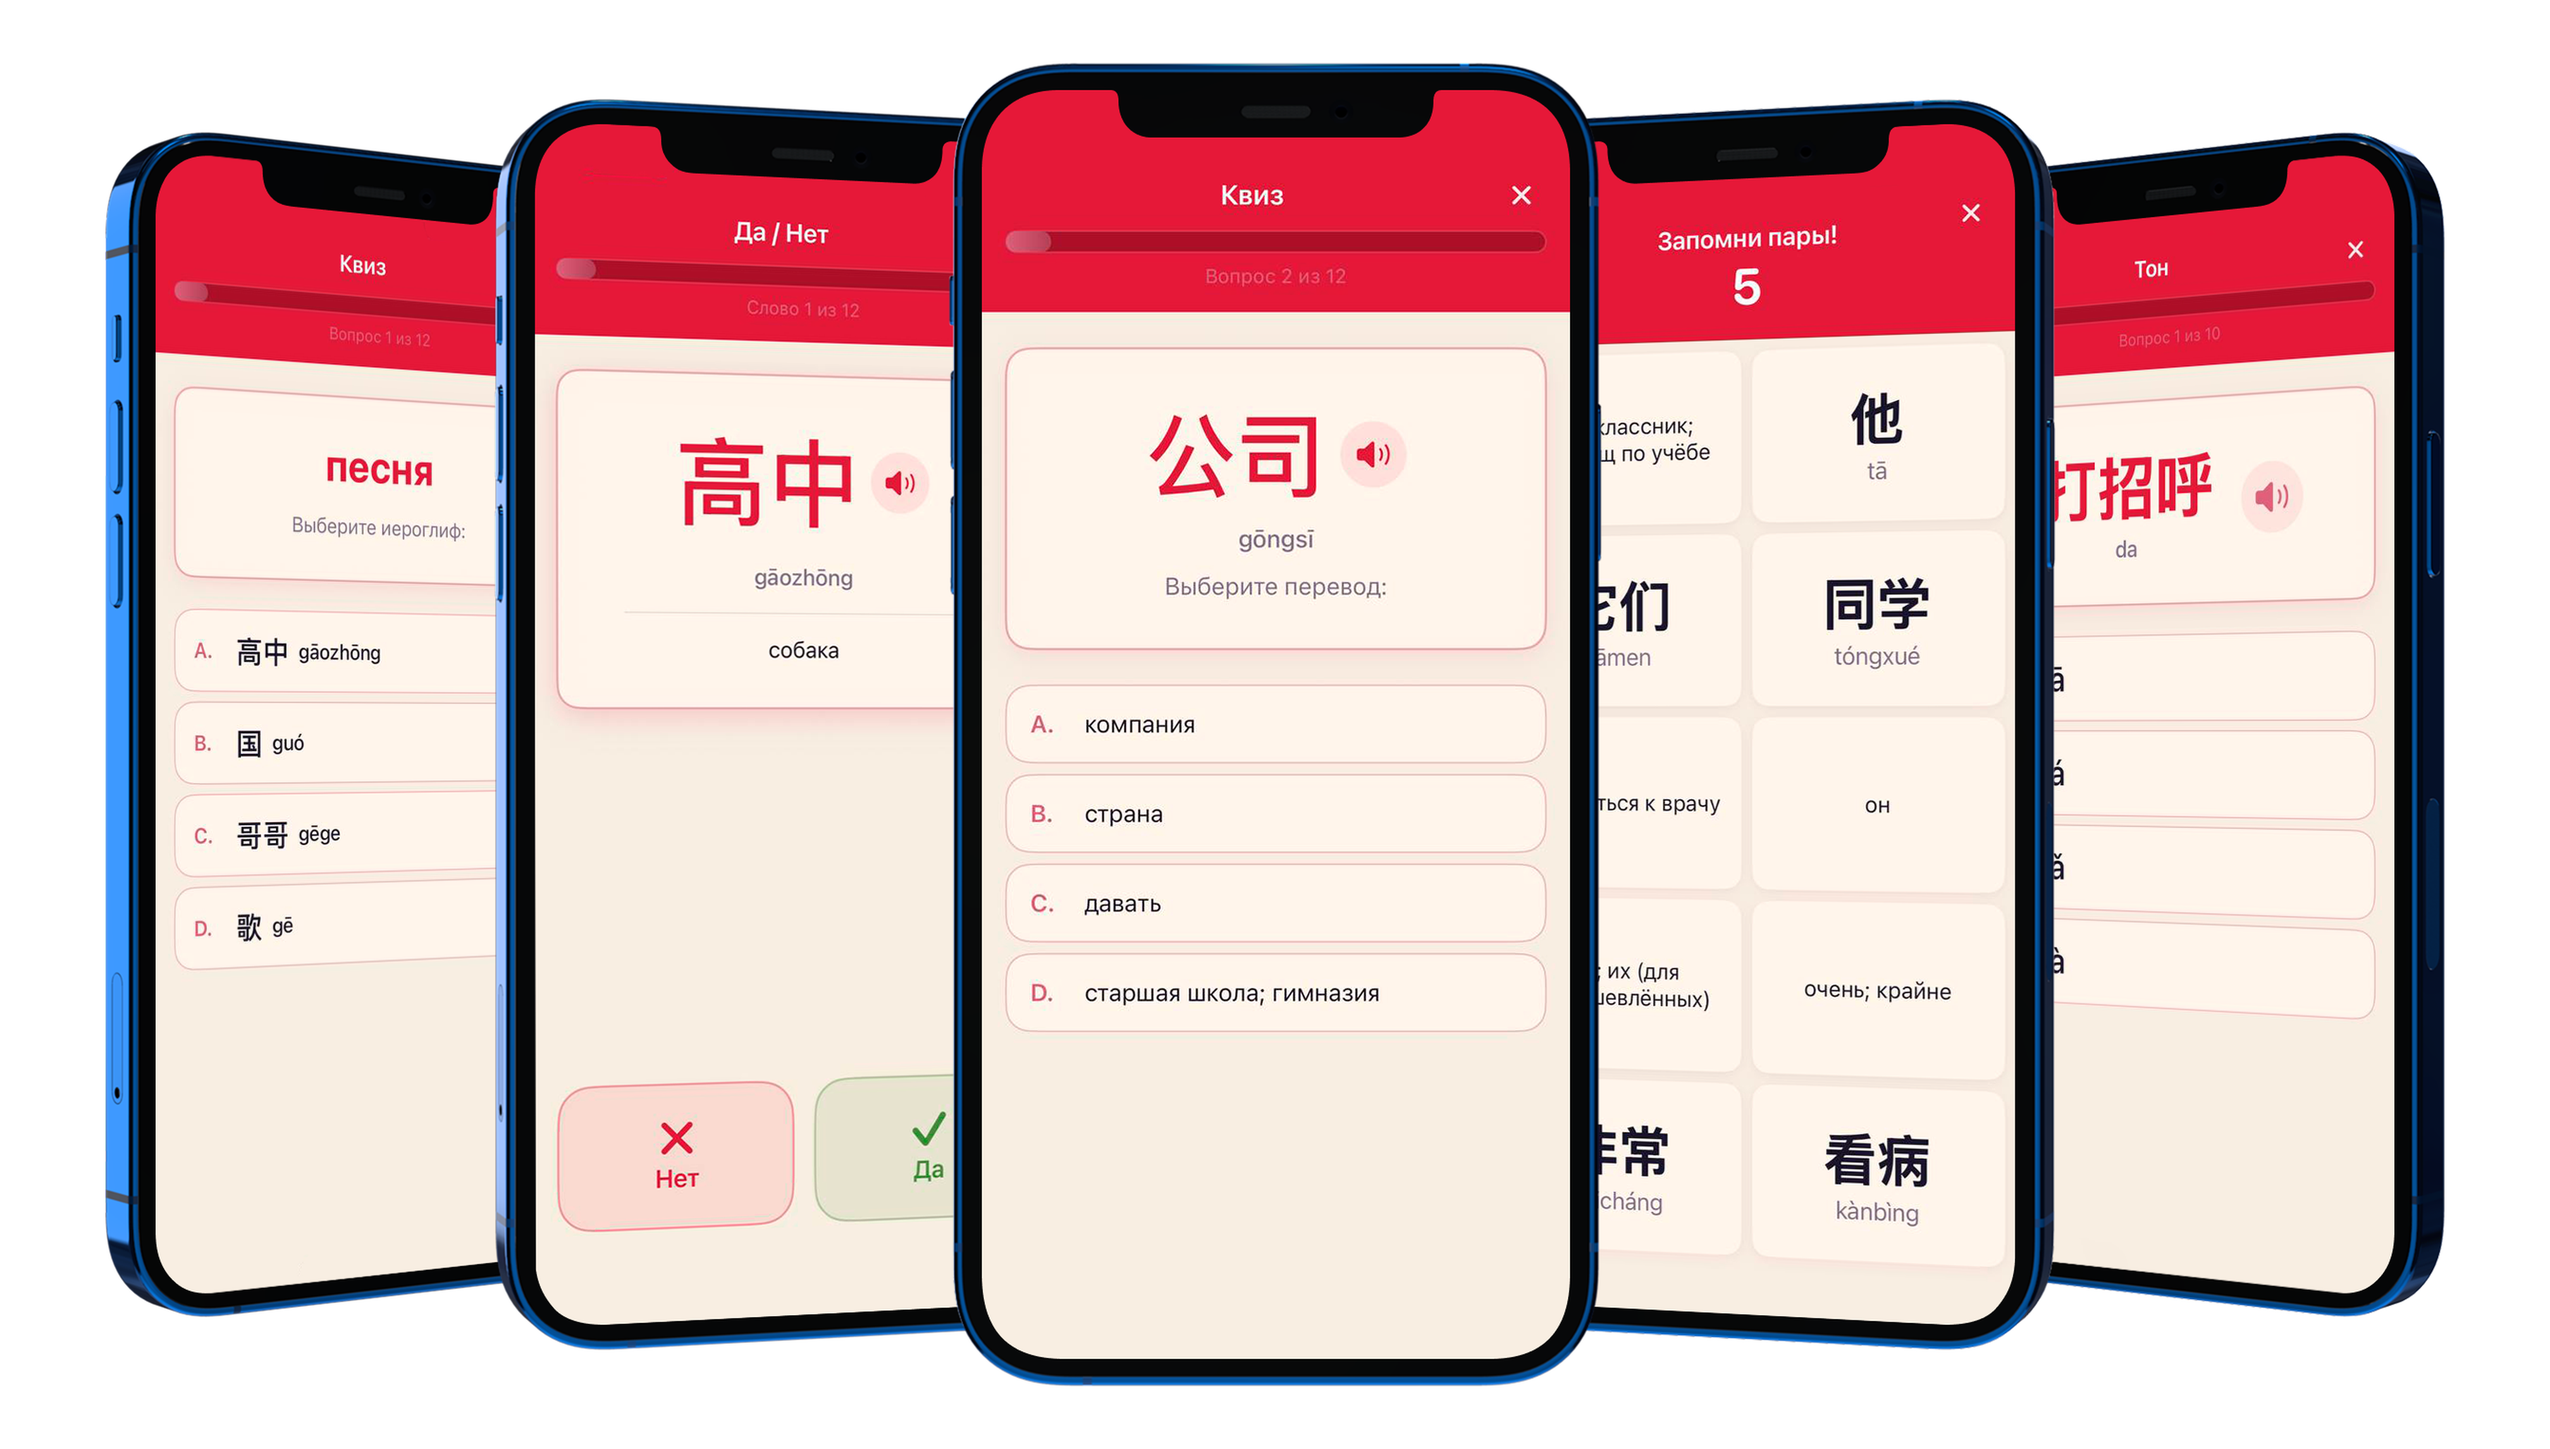
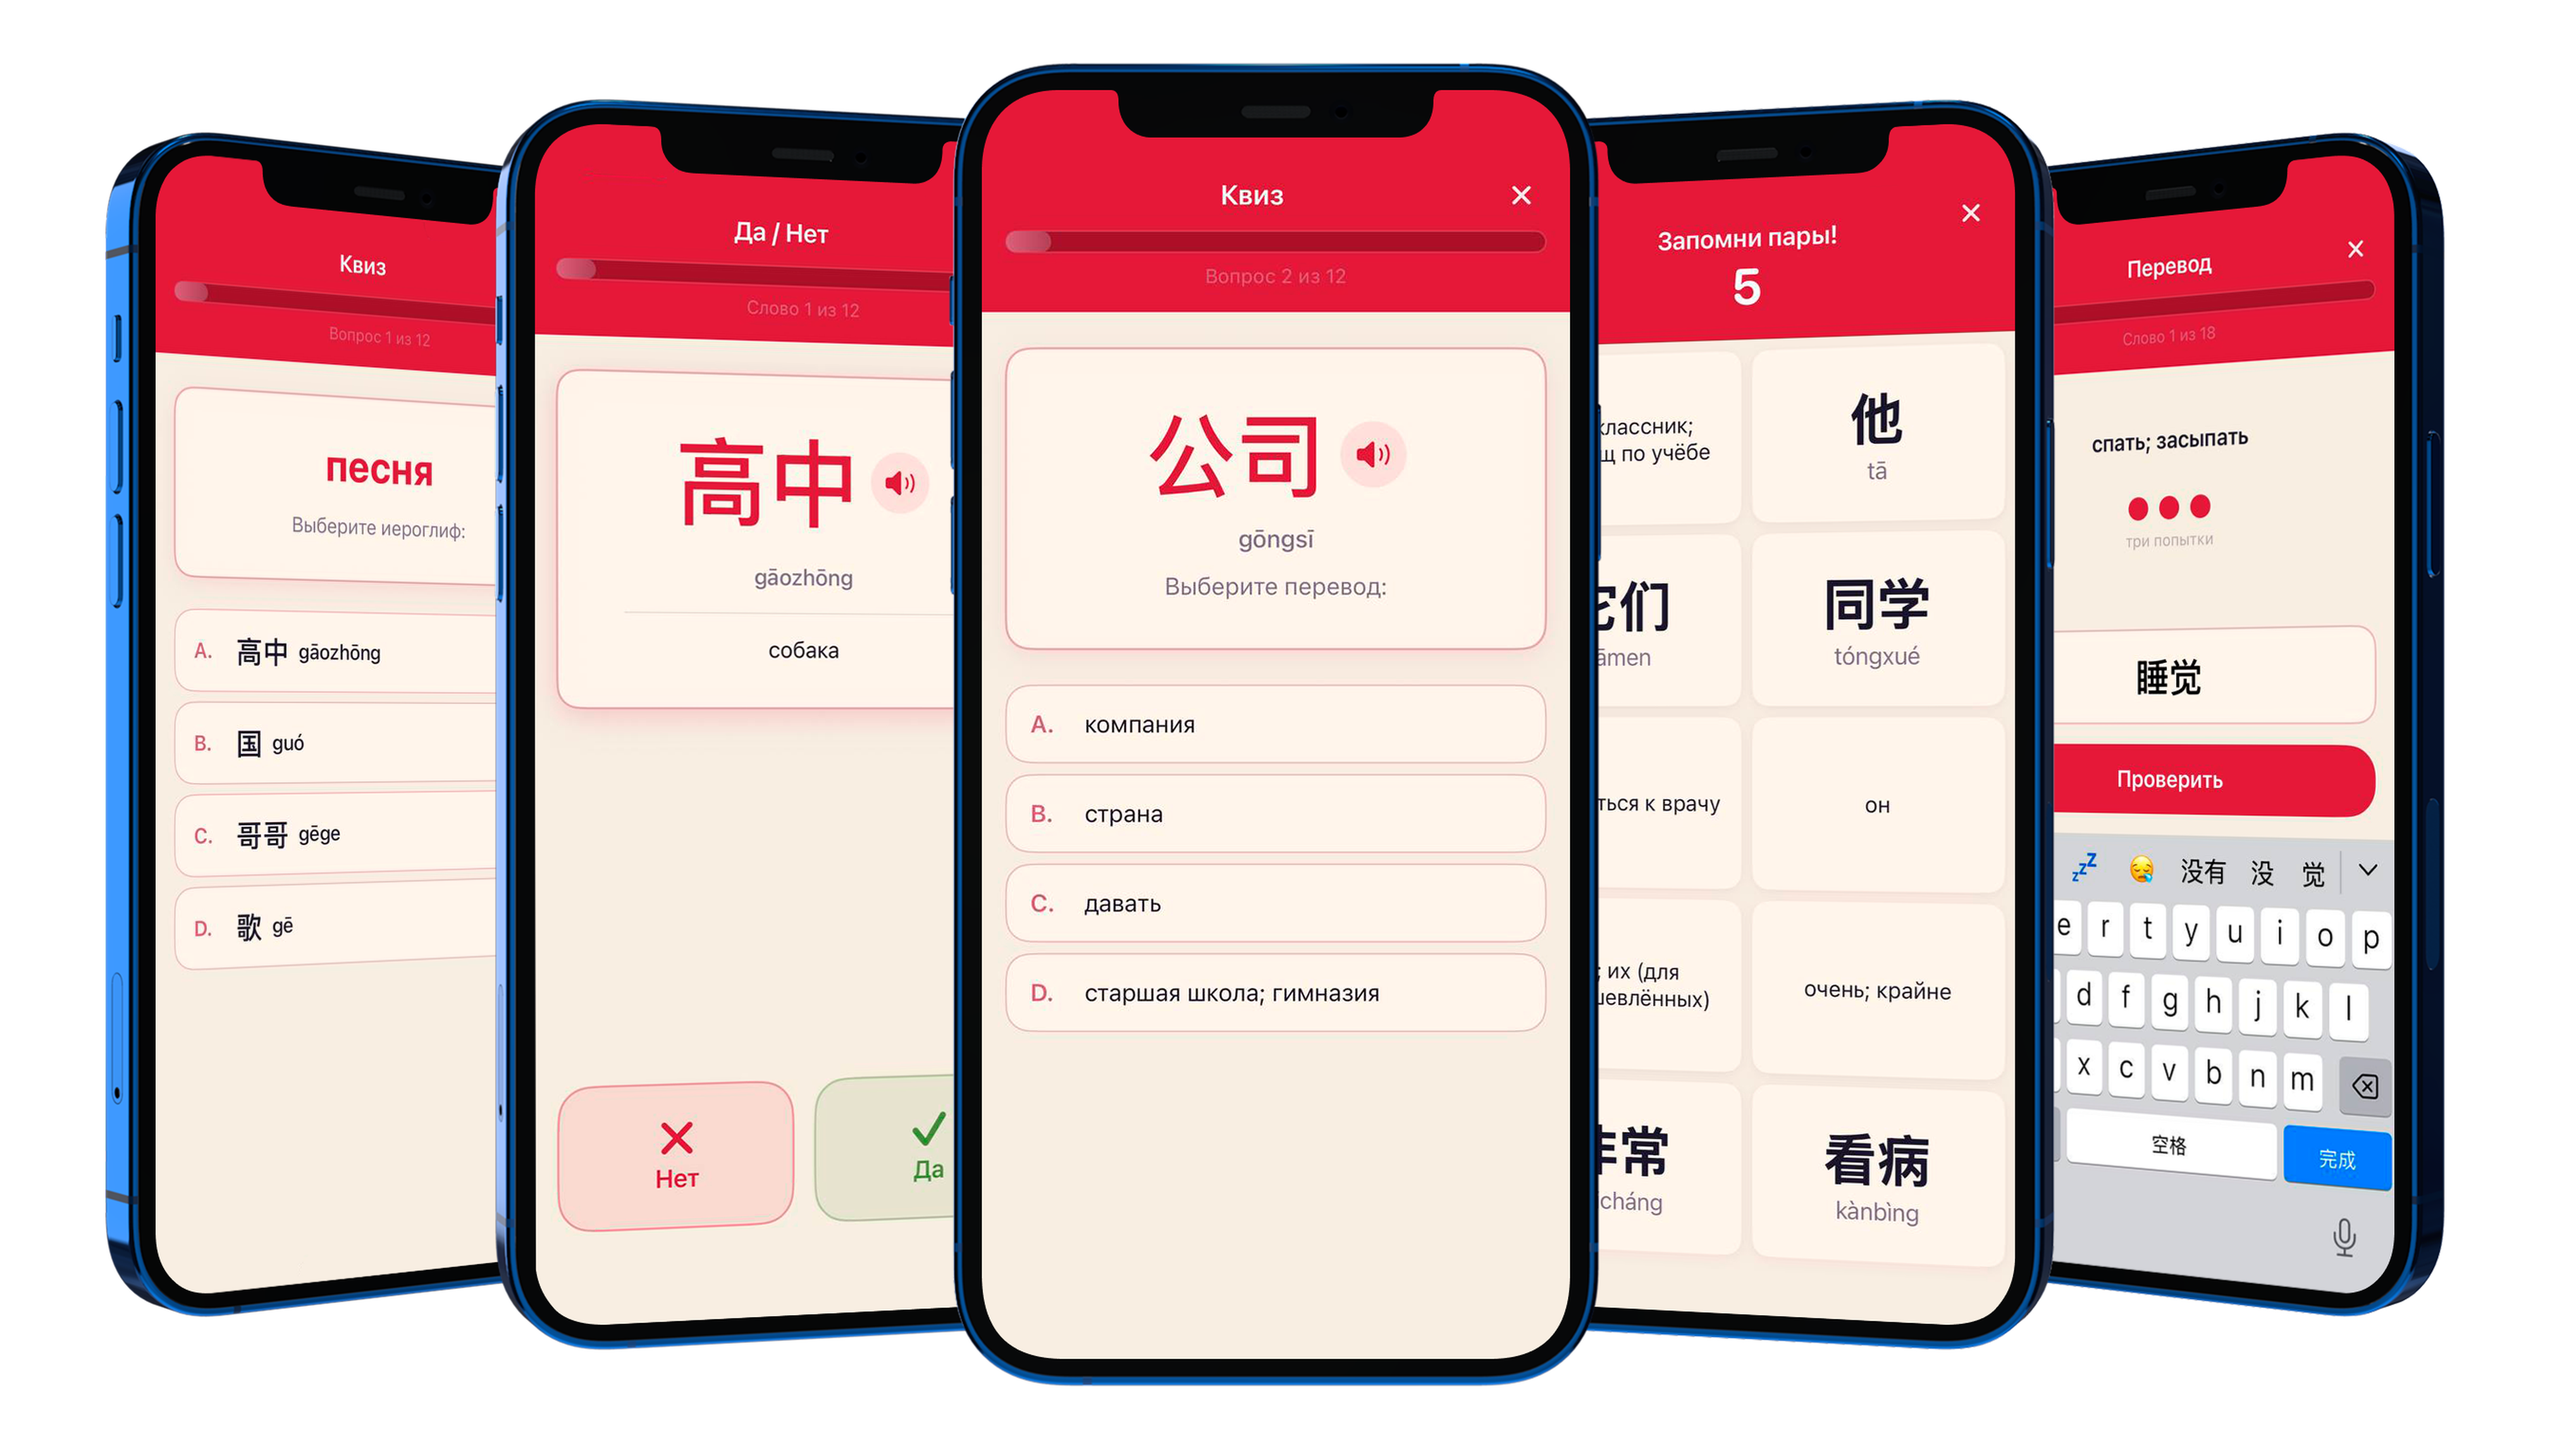
Обновить скриншоты и текст в блоке игр
- hero_main.png: новый скриншот главных экранов (LANCZOS 1.5×)
- quiz_section.png: обновлённый скриншот игр (LANCZOS 1.5×)
- Заменить «Тон» на «Перевод» в списке игр

Changed region(s): [[0.7812, 0.4337, 0.9375, 0.8983], [0.8125, 0.1549, 0.875, 0.3717]]

diff --git a/index.html b/index.html
@@ -870,7 +870,7 @@
       <li><strong>Иероглифы</strong> - выбери правильный перевод из 4 вариантов</li>
       <li><strong>Да / Нет</strong> - быстрая проверка: верно ли сочетание?</li>
       <li><strong>Память</strong> - найди пары «иероглиф + перевод»</li>
-      <li><strong>Тон</strong> - услышь слово и угадай правильный тон</li>
+      <li><strong>Перевод</strong> - проверь, помнишь ли ты слова</li>
     </ul>
   </div>
 </div>
